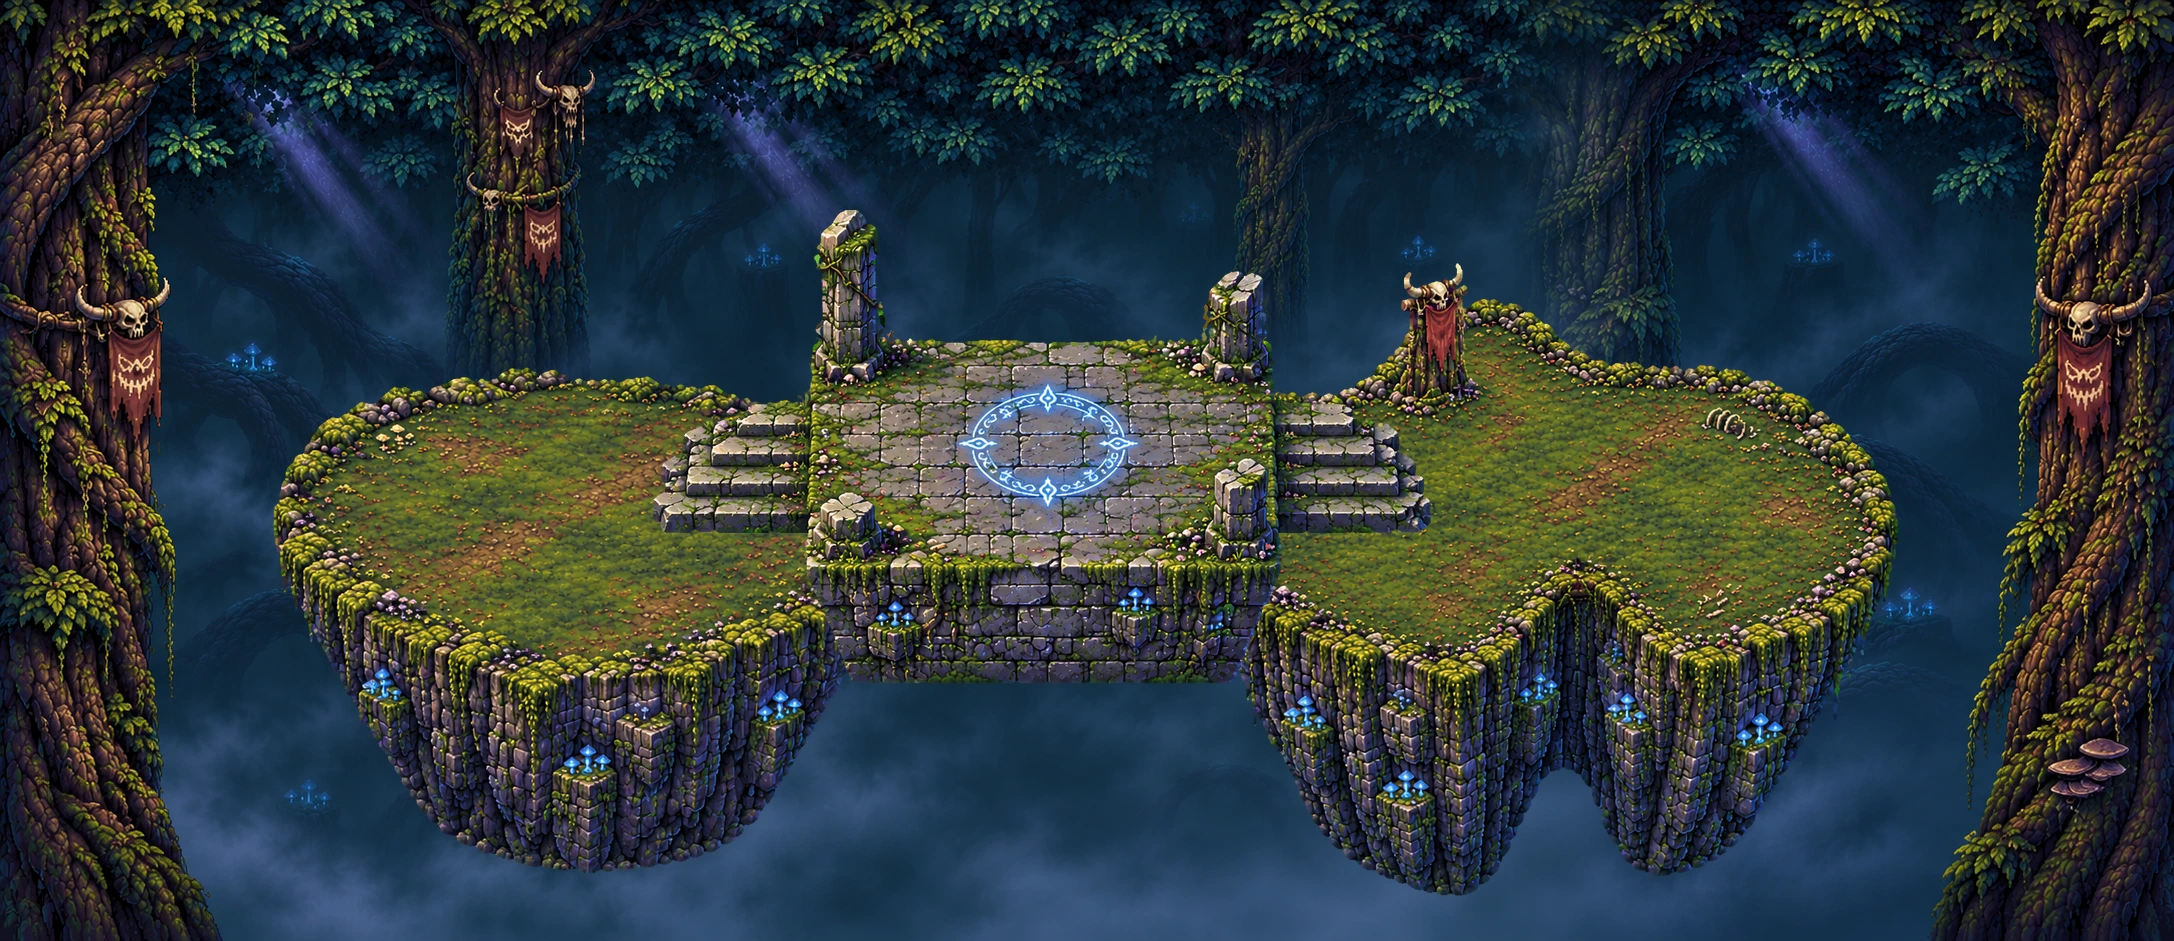
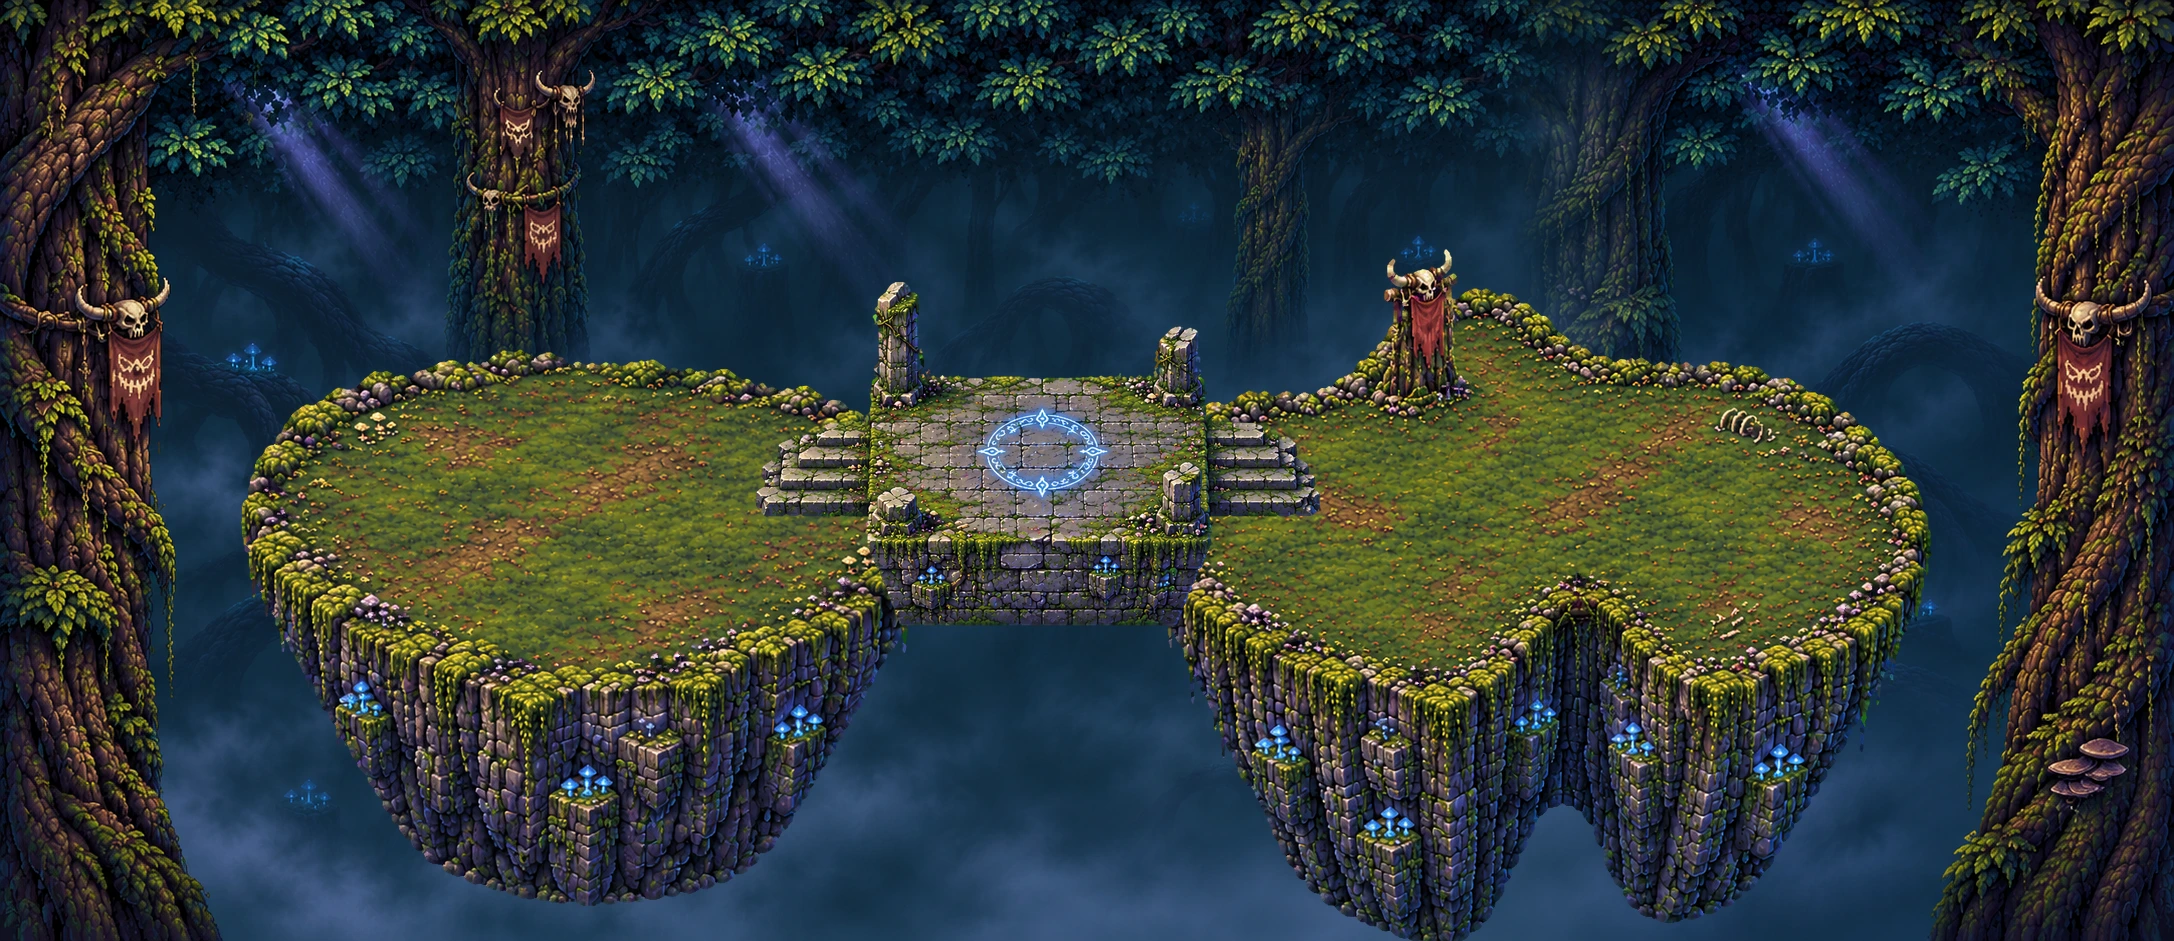
deep5：空地 0.88、石台 0.58，平地大、石台小
Claude-Session: https://claude.ai/code/session_015MetZpZfHySQWDEPDS41Tu

Changed region(s): [[0.0925, 0.2157, 0.8937, 1.0]]

diff --git a/demo/deep5.html b/demo/deep5.html
@@ -20,16 +20,16 @@ canvas{display:block;image-rendering:pixelated}
 <script src="js/data.js"></script><script src="js/sprites.js"></script>
 <script>
 // 11/25 局外 demo：哈迪斯式不规则房间。整张图 1672×941（坐标 = 原图像素），只有多边形里能走；镜头跟随，视野约 1/1.5 张图
-const cv = document.getElementById('c'), g = cv.getContext('2d'), BG = new Image(); BG.src = 'art/map/deep5.webp?v=3';
+const cv = document.getElementById('c'), g = cv.getContext('2d'), BG = new Image(); BG.src = 'art/map/deep5.webp?v=4';
 const MW = 2174, MH = 941, SW = 1672, SH = 941;   // 整张约 2 屏，镜头 1 屏 = 原图大小
-const PL = [[[321, 441], [366, 519], [366, 529], [376, 535], [409, 594], [450, 643], [534, 676], [588, 682], [677, 671], [725, 652], [766, 607], [856, 452], [784, 409], [733, 407], [709, 393], [655, 393], [645, 386], [645, 367], [633, 367], [630, 388], [563, 387], [562, 367], [460, 367], [458, 388], [440, 395], [399, 395], [383, 410], [366, 410], [348, 424], [335, 426]], [[1237, 420], [1258, 459], [1261, 477], [1329, 599], [1373, 635], [1445, 659], [1464, 658], [1490, 636], [1530, 551], [1542, 537], [1586, 539], [1600, 556], [1618, 606], [1642, 634], [1661, 640], [1709, 625], [1746, 588], [1818, 463], [1831, 453], [1835, 436], [1801, 407], [1763, 388], [1746, 388], [1733, 377], [1586, 368], [1566, 358], [1543, 333], [1513, 313], [1455, 307], [1446, 289], [1419, 295], [1410, 349], [1361, 395], [1346, 401], [1281, 401], [1267, 410], [1249, 410]], [[817, 337], [1265, 337], [1273, 570], [817, 577]], [[645, 405], [829, 405], [829, 533], [645, 533]], [[1257, 405], [1437, 405], [1437, 533], [1257, 533]]];
+const PL = [[[291, 432], [343, 518], [343, 529], [354, 535], [390, 600], [435, 654], [479, 676], [527, 690], [587, 697], [686, 685], [739, 664], [785, 613], [886, 441], [804, 395], [748, 393], [722, 377], [662, 377], [650, 368], [650, 349], [646, 368], [561, 371], [558, 349], [494, 349], [493, 369], [446, 369], [422, 380], [380, 379], [360, 396], [342, 396], [321, 412], [309, 413]], [[1203, 420], [1226, 465], [1229, 485], [1250, 524], [1261, 533], [1304, 619], [1352, 658], [1432, 685], [1455, 683], [1482, 660], [1527, 565], [1540, 550], [1587, 553], [1602, 571], [1621, 625], [1648, 657], [1671, 664], [1724, 647], [1765, 606], [1844, 469], [1858, 459], [1863, 439], [1834, 420], [1824, 406], [1800, 399], [1783, 386], [1765, 386], [1750, 374], [1718, 369], [1643, 371], [1587, 363], [1566, 353], [1538, 323], [1505, 302], [1444, 297], [1436, 276], [1403, 284], [1393, 343], [1358, 381], [1323, 400], [1251, 400], [1236, 410], [1216, 410]], [[874, 374], [1199, 374], [1205, 543], [874, 548]], [[750, 423], [883, 423], [883, 516], [750, 516]], [[1193, 423], [1324, 423], [1324, 516], [1193, 516]]];
 function inPoly(x, y, p) { let c = false; for (let i = 0, j = p.length - 1; i < p.length; j = i++) { const [xi, yi] = p[i], [xj, yj] = p[j]; if ((yi > y) !== (yj > y) && x < (xj - xi) * (y - yi) / (yj - yi) + xi) c = !c; } return c; }
 // 11/25 可走范围 = 8 像素一格的格子图；默认由多边形生成，可以在「编辑」模式里用画笔改
 const CS = 8, GW = Math.ceil(MW / CS), GH = Math.ceil(MH / CS); let GRID = new Uint8Array(GW * GH);
 function gridFromPoly() { for (let j = 0; j < GH; j++) for (let i = 0; i < GW; i++) GRID[j * GW + i] = PL.some(p => inPoly(i * CS + 4, j * CS + 4, p)) ? 1 : 0; }
 function enc() { let o = '', c = GRID[0], n = 0; for (const v of GRID) { if (v === c) n++; else { o += n + ','; c = v; n = 1; } } return GW + 'x' + GH + ':' + GRID[0] + ':' + o + n; }
 function dec(s) { const [, f, r] = s.split(':'); let c = +f, k = 0; for (const n of r.split(',')) { GRID.fill(c, k, k + +n); k += +n; c ^= 1; } }
-try { const sv = localStorage.getItem('deep5-grid-v3'); sv ? dec(sv) : gridFromPoly(); } catch (e) { gridFromPoly(); }
+try { const sv = localStorage.getItem('deep5-grid-v4'); sv ? dec(sv) : gridFromPoly(); } catch (e) { gridFromPoly(); }
 const ok = (x, y) => { const i = x / CS | 0, j = y / CS | 0; return i >= 0 && j >= 0 && i < GW && j < GH && GRID[j * GW + i] === 1; };
 function move(o, dx, dy) { if (ok(o.x + dx, o.y + dy)) { o.x += dx; o.y += dy; return; } if (ok(o.x + dx, o.y)) o.x += dx; else if (ok(o.x, o.y + dy)) o.y += dy; }
 let VW = 1, VH = 1, SC = 1, zoom = 1.5, showMask = false;
@@ -37,7 +37,7 @@ function fit() { cv.width = innerWidth; cv.height = innerHeight; VW = innerWidth
   // 视野宽 = 图宽 / zoom；手机竖屏按高度算，保证至少看到同样的高度
   SC = Math.max(VW / SW, VH / SH); }
 addEventListener('resize', fit); fit();
-const hero = { x: 539, y: 469, fx: 1, roll: 0, rcd: 0, rx: 0, ry: 0 }, foes = [];
+const hero = { x: 529, y: 469, fx: 1, roll: 0, rcd: 0, rx: 0, ry: 0 }, foes = [];
 const R = (a, b) => a + Math.random() * (b - a);
 function spawnFoes(n) { const T = ['gob_shield', 'gob_archer', 'gob_wolf']; for (let i = 0; i < n; i++) { let x, y, k = 0; do { const p = PL[Math.random() * PL.length | 0]; x = R(...[Math.min(...p.map(q => q[0])), Math.max(...p.map(q => q[0]))]); y = R(...[Math.min(...p.map(q => q[1])), Math.max(...p.map(q => q[1]))]); } while ((!ok(x, y) || Math.hypot(x - hero.x, y - hero.y) < 200) && ++k < 200); foes.push({ x, y, t: T[i % 3], sp: R(55, 85) }); } }
 spawnFoes(6);
@@ -51,7 +51,7 @@ function doRoll() { if (hero.rcd > 0) return; const [x, y] = input(); hero.rx = 
 document.getElementById('bMask').onclick = e => { showMask = !showMask; e.target.textContent = showMask ? '隐藏可走范围' : '显示可走范围'; };
 document.getElementById('bFoe').onclick = () => spawnFoes(5);
 let camX = 0, camY = 0; const E = id => document.getElementById(id);
-function save() { try { localStorage.setItem('deep5-grid-v3', enc()); } catch (e) {} E('edOut').value = enc(); }
+function save() { try { localStorage.setItem('deep5-grid-v4', enc()); } catch (e) {} E('edOut').value = enc(); }
 function doPaint(e) { const x = (e.clientX - VW / 2) / SC + camX, y = (e.clientY - VH / 2) / SC + camY, r = +E('brush').value, v = e.shiftKey ? 0 : +document.querySelector('input[name=em]:checked').value, ci = x / CS | 0, cj = y / CS | 0;
   for (let j = cj - r; j <= cj + r; j++) for (let i = ci - r; i <= ci + r; i++) if (i >= 0 && j >= 0 && i < GW && j < GH && (i - ci) ** 2 + (j - cj) ** 2 <= r * r) GRID[j * GW + i] = v; }
 E('bEd').onclick = () => { EDIT = true; showMask = true; E('ed').style.display = 'block'; E('edOut').value = enc(); };

diff --git a/tools/build_deep5.py b/tools/build_deep5.py
@@ -21,14 +21,15 @@ def surf2(im):
     m=cv2.erode(m,np.ones((15,15),np.uint8))
     c,_=cv2.findContours(m,cv2.RETR_EXTERNAL,cv2.CHAIN_APPROX_SIMPLE); c=max(c,key=cv2.contourArea)
     return cv2.approxPolyDP(c,4,True)[:,0].tolist()
-K=.8
+K=.88
 def sc(im): return im.resize((round(im.width*K),round(im.height*K)),Image.LANCZOS)
 (Li,_),(Ri,_),(Si,so)=key('c91c9caf-image.png'),key('e02b91af-image.png'),key('12a544f2-image.png')
 for n,im in (('L5',Li),('R5',Ri),('S5',Si)): im.save(n+'.png')
-Li,Ri,Si=sc(Li),sc(Ri),sc(Si)
+KS=.58
+Li,Ri=sc(Li),sc(Ri); Si=Si.resize((round(Si.width*KS),round(Si.height*KS)),Image.LANCZOS)
 sL,sR=surf2(Li),surf2(Ri)
 # stone polys in original image coords -> crop -> scale
-def sp(pts): return [[(x-so[0])*K,(y-so[1])*K] for x,y in pts]
+def sp(pts): return [[(x-so[0])*KS,(y-so[1])*KS] for x,y in pts]
 top=sp([(545,300),(1105,300),(1115,592),(545,600)]); stL=sp([(330,385),(560,385),(560,545),(330,545)]); stR=sp([(1095,385),(1320,385),(1320,545),(1095,545)])
 W,H=2174,941
 b1=np.array(Image.open(U+'bc053283-image.png').convert('RGB')).astype(float); b2=np.array(Image.open(U+'6aeab8b3-image.png').convert('RGB')).astype(float)
@@ -36,7 +37,7 @@ A=np.zeros((H,W,3)); A[:,:1672]=b1; ov=160; R=b2[:,1672-(W-1672)-ov:]; t=np.lins
 A[:,1672-ov:1672]=A[:,1672-ov:1672]*(1-t)+R[:,:ov]*t; A[:,1672:]=R[:,ov:]
 cv_=Image.fromarray(A.astype(np.uint8)).convert('RGBA')
 cy=lambda s:np.mean([p[1] for p in s])
-tuck=322*K; tot=Li.width+Si.width-2*tuck+Ri.width; xL=int((W-tot)/2); xS=int(xL+Li.width-tuck); xR=int(xS+Si.width-tuck)
+tuck=322*KS; tot=Li.width+Si.width-2*tuck+Ri.width; xL=int((W-tot)/2); xS=int(xL+Li.width-tuck); xR=int(xS+Si.width-tuck)
 yL=int(470-cy(sL)); yS=int(470-np.mean([p[1] for p in stL])); yR=int(470-cy(sR))
 cv_.alpha_composite(Li,(xL,yL)); cv_.alpha_composite(Ri,(xR,yR)); cv_.alpha_composite(Si,(xS,yS))
 polys=[[[x+xL,y+yL] for x,y in sL],[[x+xR,y+yR] for x,y in sR]]+[[[x+xS,y+yS] for x,y in p] for p in (top,stL,stR)]
